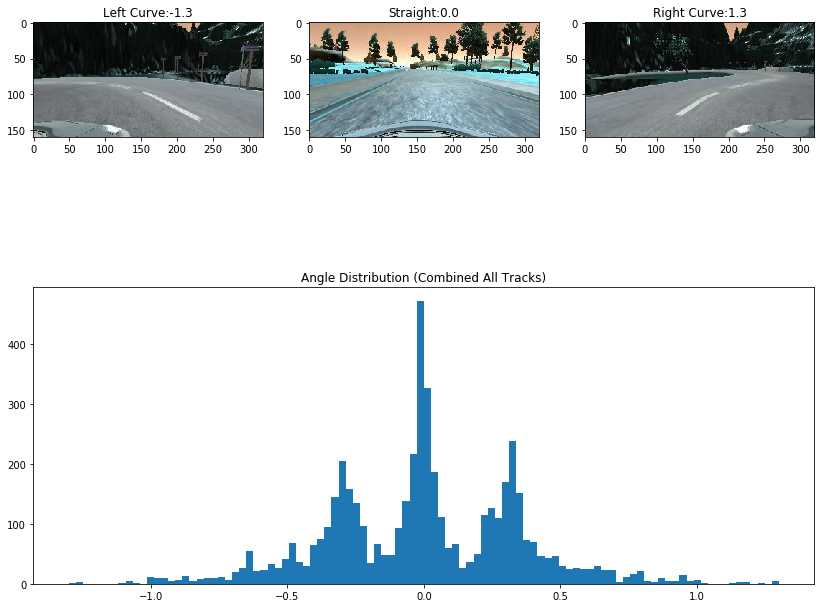
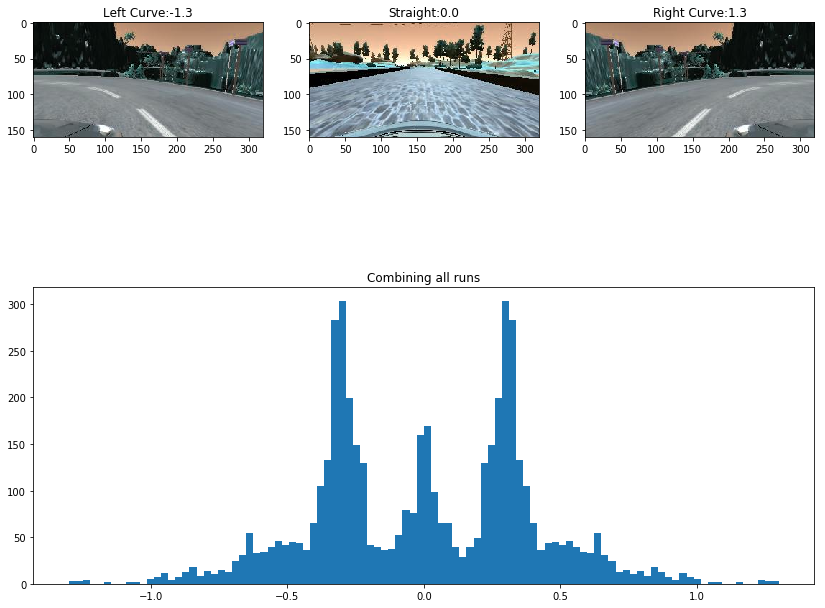
Added result gif

diff --git a/model.py b/model.py
@@ -145,7 +145,7 @@ def generator(samples, conf):
                         # flip-threshold get flipped
                         images.append(np.fliplr(center_image))
                         angles.append(-center_angle)
-                    elif np.random.rand() <= lnthresh:
+                    if np.random.rand() <= lnthresh:
                         # Append only a fraction of straight-line images
                         # (> line-threshold)
                         images.append(center_image)
